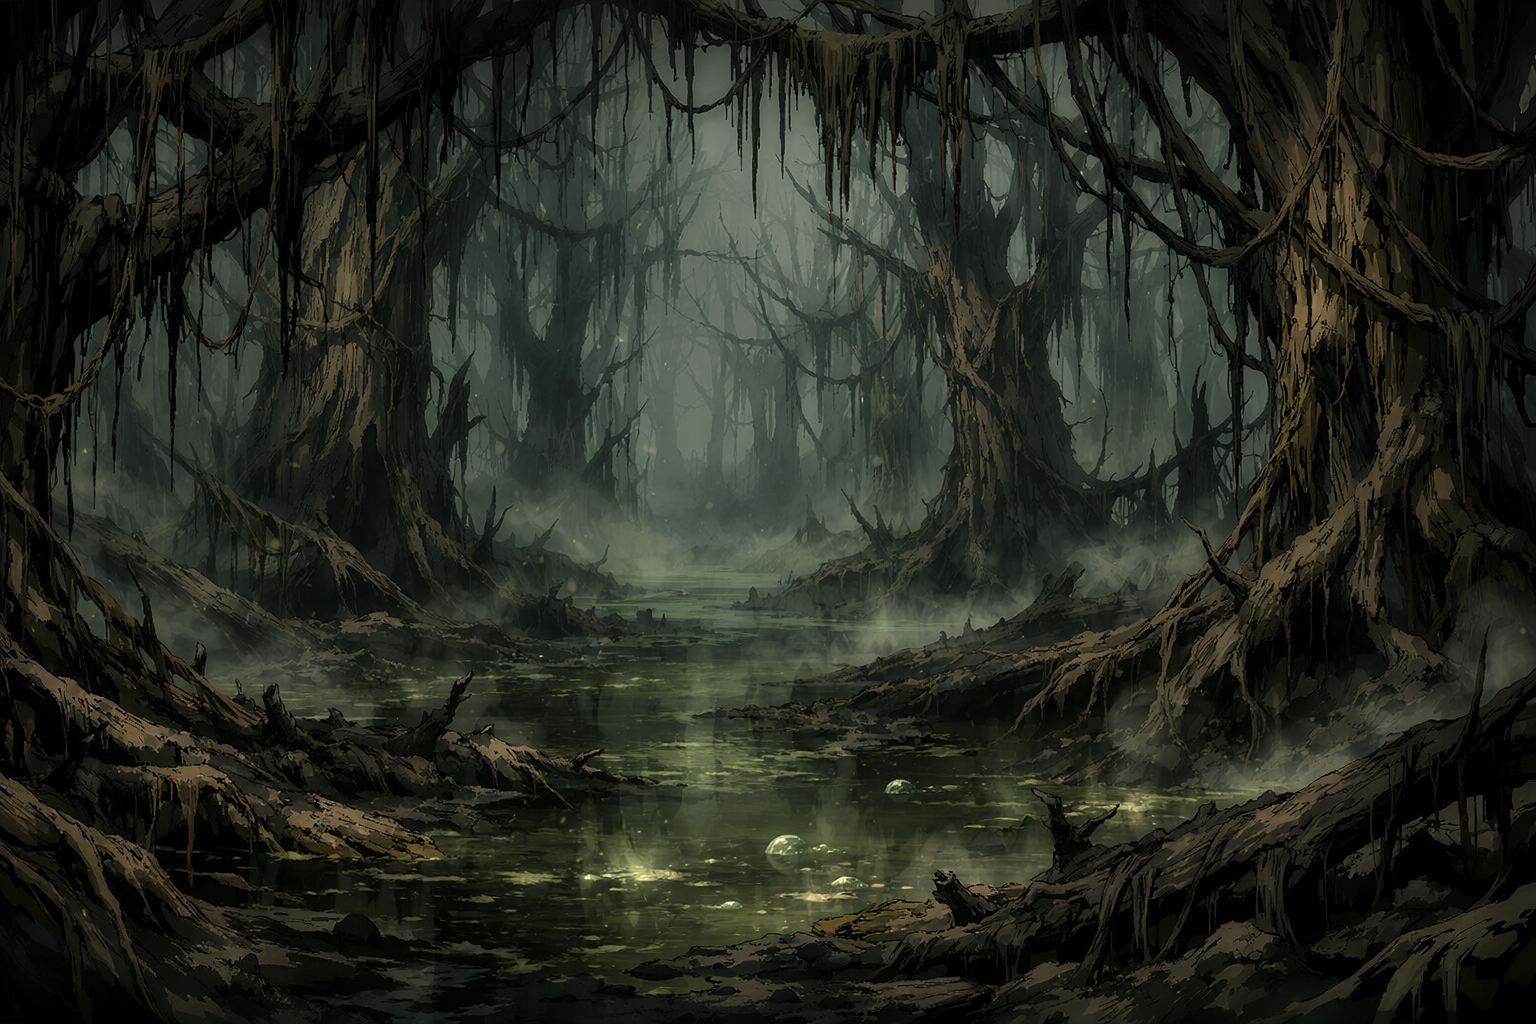
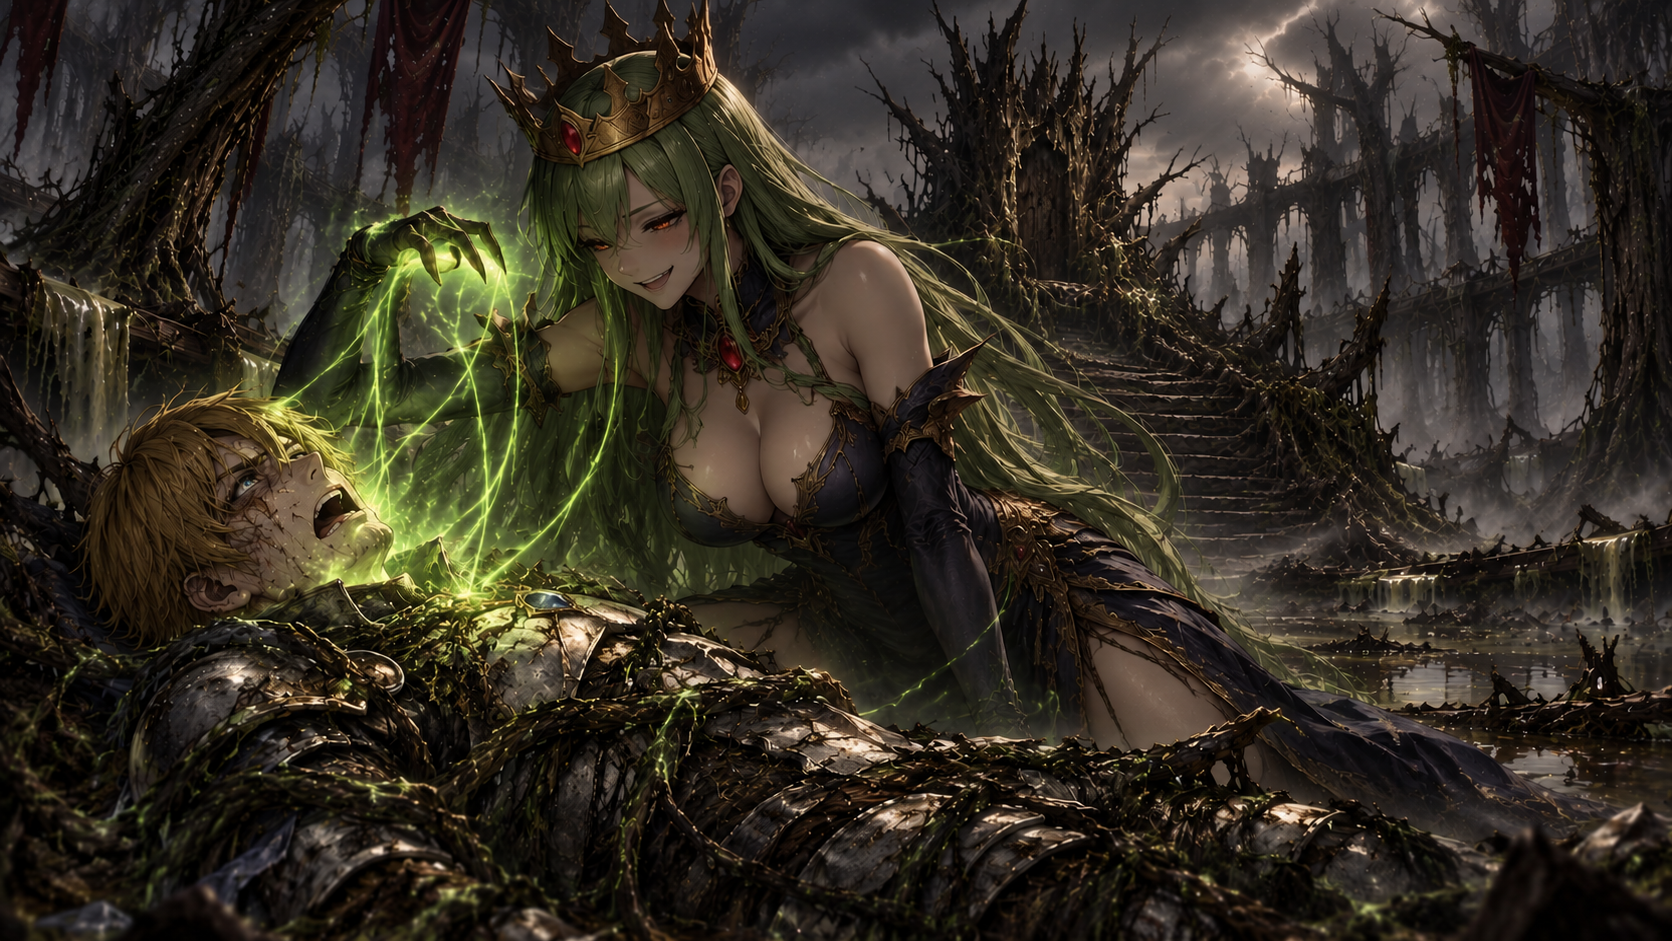
update asset for ch3-8

diff --git a/docs/images/bg/ch3-image-names.md b/docs/images/bg/ch3-image-names.md
@@ -125,3 +125,19 @@ Numbered by the artist; used by the Forgotten Sanctum scene appended to ch-3_0.
 | 1 | Famine's throne | ch-3_7c from "บัลลังก์แห่งฟามีน" (entry 9) and Famine's dialogue from entry 23; ch-3_7d |
 | 2 | First Appearance | ch-3_7c "นาง" → "น่าสะพรึง" (entries 17–20) |
 | 3 | Close up | ch-3_7c "นางลืมตาขึ้น", "โอ้ตายจริง…" (entries 21–22) |
+
+## ch3-8
+| # | Original name | Used in |
+|---|---|---|
+| 0 | Albert's fall | ch-3_8 "เขาล้มลงกระแทกโคลน" → "ไม่—ไม่—หยุดนะ—!!" (entries 48–53), "ขาของอัลเบิร์ต—" → "ไปหานาง" (59–65) |
+| 1 | Famine drain | ch-3_8 "นางคุกเข่าลงตรงหน้าเขา" → "เหลือเพียงซากของสิ่งที่เคยเป็นคน" (68–81) |
+| 2 | Yida pulled out Ian's serum | ch-3_8 "เขาล้วงไปในกระเป๋า" → "…คงถึงเวลาคับขันแล้วสินะ…" (109–112) |
+| 3 | Yida inject the serum | ch-3_8 "เขาแทงมันเข้าที่ตัวเอง" → "จากนั้น—" (113–115) |
+| 4 | Yida felt funny after injecting the serum | ch-3_8 "ร่างของเขาสั่น" → "อี้ต้าฉู่—?" (116–120) |
+| 5 | Yida begin to transform | ch-3_8 "ร่างของเขาขยายใหญ่ขึ้น" → "กระดูกเคลื่อนตัว" (121–123) |
+| 6 | Yida fully transformed | ch-3_8 "…โอ้" → "ของคาปิบาร่ากล้ามโตขนาดยักษ์" (124–129) |
+| 7 | Yida carried Kazuma and Lumine | ch-3_8 "เขาคว้าคาสึมะ" → "จับให้ดีๆ!" (132–139) |
+| 8 | Yida run away | ch-3_8 "เถาวัลย์พุ่งขึ้นอีกครั้ง" → "อี้ต้าฉู่ไม่หันกลับ" (144–150) |
+| 9 | Outside the Forest | ch-3_8 after the "นอกป่า" title card to the end (159–197) |
+| 10 | 1 (pixel-identical copy of ch3-1/1) | unused — ch-3_8 references ch3-1/1 for the forest escape (151–157) |
+| 11 | 2 (pixel-identical copy of ch3-7/1) | unused — ch-3_8 references ch3-7/1 for the throne swamp |
